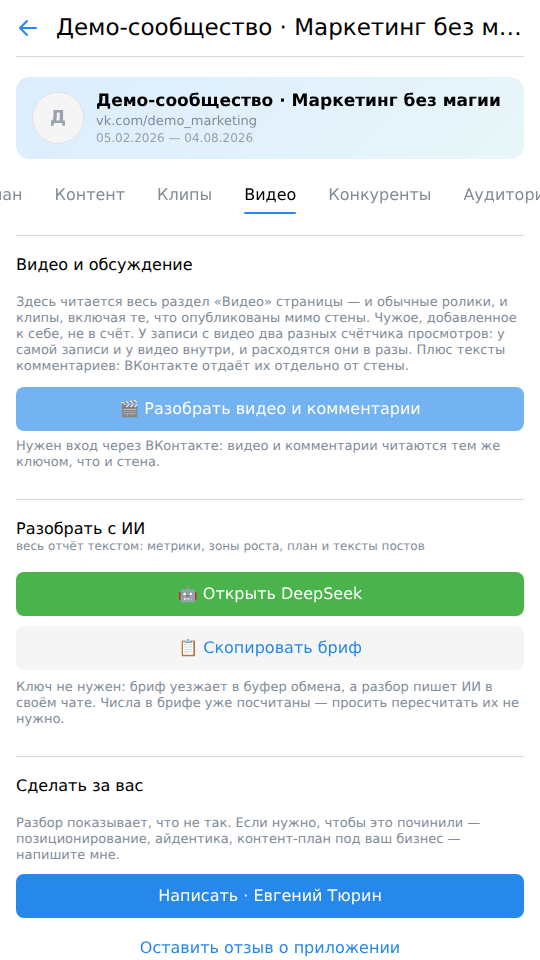
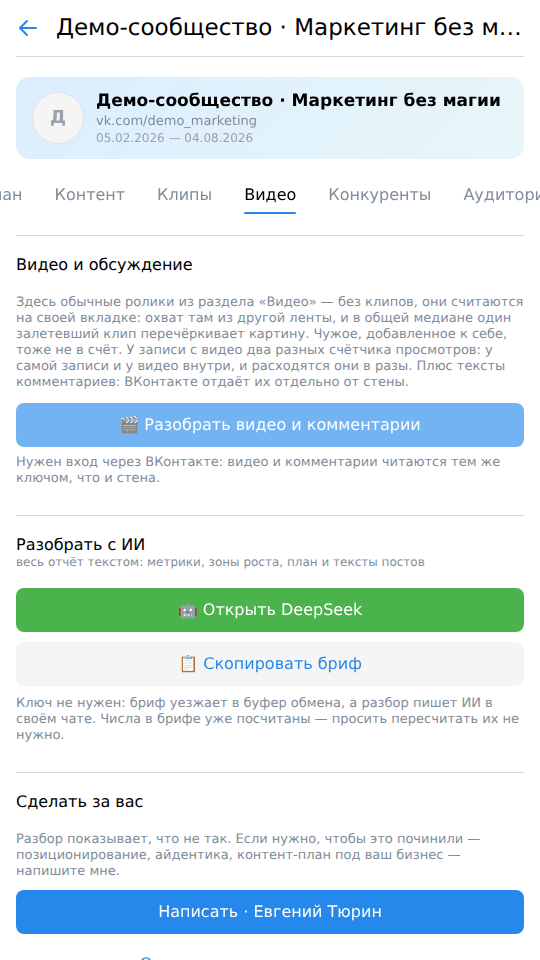
Считать видео без клипов
Вкладка «Видео» складывала обычные ролики с клипами в одни медианы.
Это не просто неточность: охват в ленте клипов раздаётся рывками,
и один залетевший клип перечёркивает картину по всей ленте видео —
медиана, «лучшие», корзины по длительности показывали не то.

Теперь в цифрах вкладки только обычные ролики. Клипы остались одной
строкой сравнения «против клипов»: медианы просмотров и комментариев
рядом, чтобы видеть, какая лента приносит охват. Разбор клипов —
на своей вкладке, как и был.

Если за период выходили одни клипы, вкладка так и говорит и отправляет
на соседнюю, вместо пустого «видео не нашлось».

Claude-Session: https://claude.ai/code/session_01EZgieUKmpH6o8bzon8hGGc

Changed region(s): [[0.0296, 0.3125, 0.9778, 0.5], [0.0296, 0.5312, 0.9778, 0.7812], [0.0296, 0.8125, 0.9778, 1.0]]

diff --git a/apps/vk-audit/src/video/analyze.ts b/apps/vk-audit/src/video/analyze.ts
@@ -34,6 +34,15 @@ export interface DurationRow {
   medianComments: number;
 }
 
+/**
+ * Разбор обычных видео — без клипов.
+ *
+ * Клипы живут в отдельной ленте и охват там раздаётся по другим
+ * правилам: у одного клипа бывает больше просмотров, чем у всей ленты
+ * видео вместе. В общей медиане это перекашивает всё, поэтому клипы
+ * посчитаны на своей вкладке, а сюда попадает только то, что лежит
+ * в разделе «Видео» как обычный ролик.
+ */
 export interface VideoReport {
   count: number;
   /** Просмотры самих роликов — не путать с просмотрами записей. */
@@ -41,6 +50,8 @@ export interface VideoReport {
   medianViews: number;
   medianDuration: number;
   totalComments: number;
+  /** Комментариев на ролик — чтобы сравнить с клипами теми же мерками. */
+  medianComments: number;
   byDuration: DurationRow[];
   top: VideoStat[];
   flop: VideoStat[];
@@ -53,15 +64,14 @@ export interface VideoReport {
   viewsRatio: number | null;
   postViewsMedian: number;
   /**
-   * Клипы и обычные видео по отдельности.
+   * Клипы, ушедшие на соседнюю вкладку.
    *
-   * ВК раздаёт им охват из разных лент, и складывать их в одну медиану —
-   * то же самое, что усреднять сторис с постами. Если ВК ничего
-   * не разметил, `clips.count` будет нулём, и разделение не показывается.
+   * В цифры выше они не входят — только для сравнения «где охват
+   * больше». Если ВК ничего не разметил, `clips.count` будет нулём,
+   * и сравнение не показывается.
    */
   clips: { count: number; medianViews: number; medianComments: number };
-  regular: { count: number; medianViews: number; medianComments: number };
-  /** Ролики, которых нет ни в одной записи — обычно опубликованы только в ленту клипов. */
+  /** Видео, которых нет ни в одной записи: лежат в разделе, но не выложены. */
   offWall: number;
   /**
    * Чужие ролики, добавленные на страницу и не попавшие в разбор.
@@ -73,8 +83,12 @@ export interface VideoReport {
 }
 
 export function analyzeVideos(
-  videos: VideoStat[], posts: RawPost[], foreign = 0,
+  all: VideoStat[], posts: RawPost[], foreign = 0,
 ): VideoReport {
+  // клипы считаются на своей вкладке: их охват из другой ленты, и
+  // в общей медиане один залетевший клип перечёркивает всю картину
+  const videos = all.filter((v) => !v.isClip);
+  const clips = all.filter((v) => v.isClip);
   const views = videos.map((v) => v.views).filter((v) => v > 0);
   // ролики мимо стены записи не имеют: их `postId` — ноль, и в набор
   // «записей с видео» он попадать не должен
@@ -111,6 +125,7 @@ export function analyzeVideos(
     medianViews,
     medianDuration: median(videos.map((v) => v.duration)),
     totalComments: videos.reduce((sum, v) => sum + v.comments, 0),
+    medianComments: median(videos.map((v) => v.comments)),
     byDuration,
     top: ranked.slice(0, 5),
     // хвост показываем, только когда роликов хватает: на пяти видео
@@ -118,8 +133,7 @@ export function analyzeVideos(
     flop: ranked.length >= 8 ? ranked.slice(-3).reverse() : [],
     viewsRatio: postViewsMedian ? medianViews / postViewsMedian : null,
     postViewsMedian,
-    clips: group(videos.filter((v) => v.isClip)),
-    regular: group(videos.filter((v) => !v.isClip)),
+    clips: group(clips),
     offWall: videos.filter((v) => !v.onWall).length,
     foreign,
   };
@@ -252,12 +266,13 @@ export function videoFindings(video: VideoReport, comments: CommentReport): stri
       + 'когда обложка обещает не то, что внутри.');
   }
 
-  if (video.clips.count && video.regular.count) {
-    const stronger = video.clips.medianViews >= video.regular.medianViews ? 'Клипы' : 'Обычные видео';
+  if (video.clips.count && video.count) {
+    const stronger = video.clips.medianViews >= video.medianViews ? 'Клипы' : 'Обычные видео';
     out.push(`${stronger} собирают больше: клипы — медиана `
       + `${Math.round(video.clips.medianViews)} просмотров (${video.clips.count} шт.), `
-      + `обычные видео — ${Math.round(video.regular.medianViews)} (${video.regular.count} шт.). `
-      + 'Это разные ленты, и охват они раздают по-разному.');
+      + `обычные видео — ${Math.round(video.medianViews)} (${video.count} шт.). `
+      + 'Это разные ленты, и охват они раздают по-разному. Клипы разобраны '
+      + 'на своей вкладке и в цифры выше не входят.');
   }
 
   if (video.offWall) {

diff --git a/apps/vk-audit/src/components/VideoView.tsx b/apps/vk-audit/src/components/VideoView.tsx
@@ -46,9 +46,10 @@ export function VideoView({
       <Group header={<Header>Видео и обсуждение</Header>}>
         <Div>
           <Footnote style={{ color: 'var(--vkui--color_text_secondary)', display: 'block', marginBottom: 12 }}>
-            Здесь читается весь раздел «Видео» страницы — и обычные ролики,
-            и клипы, включая те, что опубликованы мимо стены. Чужое,
-            добавленное к себе, не в счёт. У записи с видео два разных
+            Здесь обычные ролики из раздела «Видео» — без клипов, они
+            считаются на своей вкладке: охват там из другой ленты, и в общей
+            медиане один залетевший клип перечёркивает картину. Чужое,
+            добавленное к себе, тоже не в счёт. У записи с видео два разных
             счётчика просмотров: у самой записи и у видео внутри, и
             расходятся они в разы. Плюс тексты комментариев: ВКонтакте
             отдаёт их отдельно от стены.
@@ -72,11 +73,14 @@ export function VideoView({
       <Group>
         <Placeholder title="Видео не нашлось">
           {note || (video.foreign
-            ? `За период страница не публиковала своего видео. Чужого, `
+            ? `За период страница не публиковала обычных роликов. Чужого, `
               + `добавленного к себе, — ${video.foreign}: к охвату страницы `
               + 'оно отношения не имеет и в разбор не идёт.'
-            : 'За выбранный период у страницы нет ни видео, ни клипов — или '
-              + 'доступ к ним закрыт настройками.')}
+            : (video.clips.count
+              ? `За период страница выкладывала только клипы (${video.clips.count}) — `
+                + 'смотрите вкладку «Клипы».'
+              : 'За выбранный период у страницы нет ни видео, ни клипов — или '
+                + 'доступ к ним закрыт настройками.'))}
         </Placeholder>
       </Group>
     );
@@ -86,7 +90,7 @@ export function VideoView({
 
   return (
     <>
-      <Group header={<Header subtitle="просмотры самого видео, а не записей">
+      <Group header={<Header subtitle="обычные ролики без клипов: просмотры самого видео, а не записей">
         Видео
       </Header>}
       >
@@ -95,11 +99,7 @@ export function VideoView({
             <span className="kpi__icon">🎬</span>
             <div className="kpi__value">{f(video.count, 0)}</div>
             <div className="kpi__label">видео</div>
-            <div className="kpi__hint">
-              {video.clips.count
-                ? `клипов ${f(video.clips.count, 0)} · медиана ${duration(video.medianDuration)}`
-                : `медиана ${duration(video.medianDuration)}`}
-            </div>
+            <div className="kpi__hint">{`медиана ${duration(video.medianDuration)}`}</div>
           </div>
           <div className="kpi rise rise-1">
             <span className="kpi__icon">👁</span>
@@ -125,23 +125,29 @@ export function VideoView({
         </Div>
       </Group>
 
-      {(video.clips.count > 0 && video.regular.count > 0) && (
-        <Group header={<Header subtitle="ВКонтакте раздаёт им охват из разных лент">
-          Клипы и обычные видео
+      {video.clips.count > 0 && (
+        <Group header={<Header subtitle="медиана просмотров: ВКонтакте раздаёт охват из разных лент">
+          Против клипов
         </Header>}
         >
+          <SimpleCell
+            subtitle={`${video.count} шт. · комментариев ${f(video.medianComments, 1)}`}
+            indicator={f(video.medianViews, 0)}
+          >
+            Обычные видео
+          </SimpleCell>
           <SimpleCell
             subtitle={`${video.clips.count} шт. · комментариев ${f(video.clips.medianComments, 1)}`}
             indicator={f(video.clips.medianViews, 0)}
           >
             Клипы
           </SimpleCell>
-          <SimpleCell
-            subtitle={`${video.regular.count} шт. · комментариев ${f(video.regular.medianComments, 1)}`}
-            indicator={f(video.regular.medianViews, 0)}
-          >
-            Обычные видео
-          </SimpleCell>
+          <Div style={{ paddingTop: 0 }}>
+            <Footnote style={{ color: 'var(--vkui--color_text_secondary)' }}>
+              Клипы в остальные цифры этой вкладки не входят — они разобраны
+              на вкладке «Клипы».
+            </Footnote>
+          </Div>
         </Group>
       )}
 

diff --git a/apps/vk-audit/src/components/GuideView.tsx b/apps/vk-audit/src/components/GuideView.tsx
@@ -109,10 +109,12 @@ const STEPS: Step[] = [
     tab: 'Видео',
     title: 'Видео и обсуждение',
     screen: '8-roliki.png',
-    lead: 'Весь раздел «Видео» страницы и все комментарии — со стены '
-      + 'и из-под роликов. Собирается той же кнопкой, что и клипы.',
+    lead: 'Обычные ролики из раздела «Видео» — без клипов, они на соседней '
+      + 'вкладке. Плюс все комментарии: со стены и из-под роликов. '
+      + 'Собирается той же кнопкой, что и клипы.',
     points: [
       ['Два счётчика просмотров', 'у записи и у ролика внутри — они расходятся в разы. Вкладка показывает оба и говорит, во сколько раз. Если ролики смотрят чаще, разбор по стене занижает охват'],
+      ['Против клипов', 'медианы обычных видео и клипов рядом — видно, какая лента приносит охват. В остальные цифры вкладки клипы не входят: у них своя'],
       ['Длительность', 'медиана просмотров по длине ролика: видно, какой формат досматривают'],
       ['Комментарии из двух мест', 'со стены и из-под роликов. У клипа своё обсуждение, и клип мимо стены живёт только там'],
       ['Вопросы без ответа', 'комментарии со знаком вопроса, где автор не ответил. Самая дешёвая вовлечённость — человек уже написал. Клик ведёт прямо к ролику'],

diff --git a/apps/vk-audit/src/video/analyze.test.ts b/apps/vk-audit/src/video/analyze.test.ts
@@ -185,22 +185,41 @@ describe('разбор комментариев', () => {
 });
 
 describe('клипы и обычные видео', () => {
-  it('считает их по отдельности', () => {
+  it('клипы в цифры вкладки не попадают', () => {
     const report = analyzeVideos([
       video(1, 900, 20, 0, true), video(2, 1100, 25, 0, true),
       video(3, 100, 300), video(4, 200, 400),
     ], []);
 
+    // считаются только обычные ролики
+    expect(report.count).toBe(2);
+    expect(report.medianViews).toBe(150);
+    expect(report.totalViews).toBe(300);
+    // клипы остаются рядом — для сравнения, но в общих числах их нет
     expect(report.clips.count).toBe(2);
     expect(report.clips.medianViews).toBe(1000);
-    expect(report.regular.count).toBe(2);
-    expect(report.regular.medianViews).toBe(150);
+  });
+
+  it('корзины по длительности собираются без клипов', () => {
+    const report = analyzeVideos([
+      video(1, 900, 20, 0, true), video(2, 1100, 25, 0, true),
+      video(3, 100, 300),
+    ], []);
+
+    expect(report.byDuration.map((r) => [r.label, r.count])).toEqual([['3–10 мин', 1]]);
+    expect(report.top.map((v) => v.id)).toEqual([3]);
+  });
+
+  it('когда одни клипы, вкладка пустая, а клипы посчитаны', () => {
+    const report = analyzeVideos([video(1, 900, 20, 0, true)], []);
+    expect(report.count).toBe(0);
+    expect(report.clips.count).toBe(1);
   });
 
   it('когда ВК ничего не разметил, клипов просто нет', () => {
     const report = analyzeVideos([video(1, 100, 30), video(2, 200, 30)], []);
     expect(report.clips.count).toBe(0);
-    expect(report.regular.count).toBe(2);
+    expect(report.count).toBe(2);
   });
 
   it('замечает ролики мимо стены', () => {

diff --git a/apps/vk-audit/src/components/ClipsView.tsx b/apps/vk-audit/src/components/ClipsView.tsx
@@ -59,8 +59,8 @@ export function ClipsView({ report, busy, stage, note, canCollect, onCollect }: 
       <Group>
         <Placeholder title="Клипов не нашлось">
           {note || 'За период у страницы нет вертикальных роликов. '
-            + 'Обычные ролики смотрите на вкладке «Видео»: там считается '
-            + 'весь раздел целиком.'}
+            + 'Обычные смотрите на вкладке «Видео»: там весь раздел '
+            + 'без клипов.'}
         </Placeholder>
       </Group>
     );
